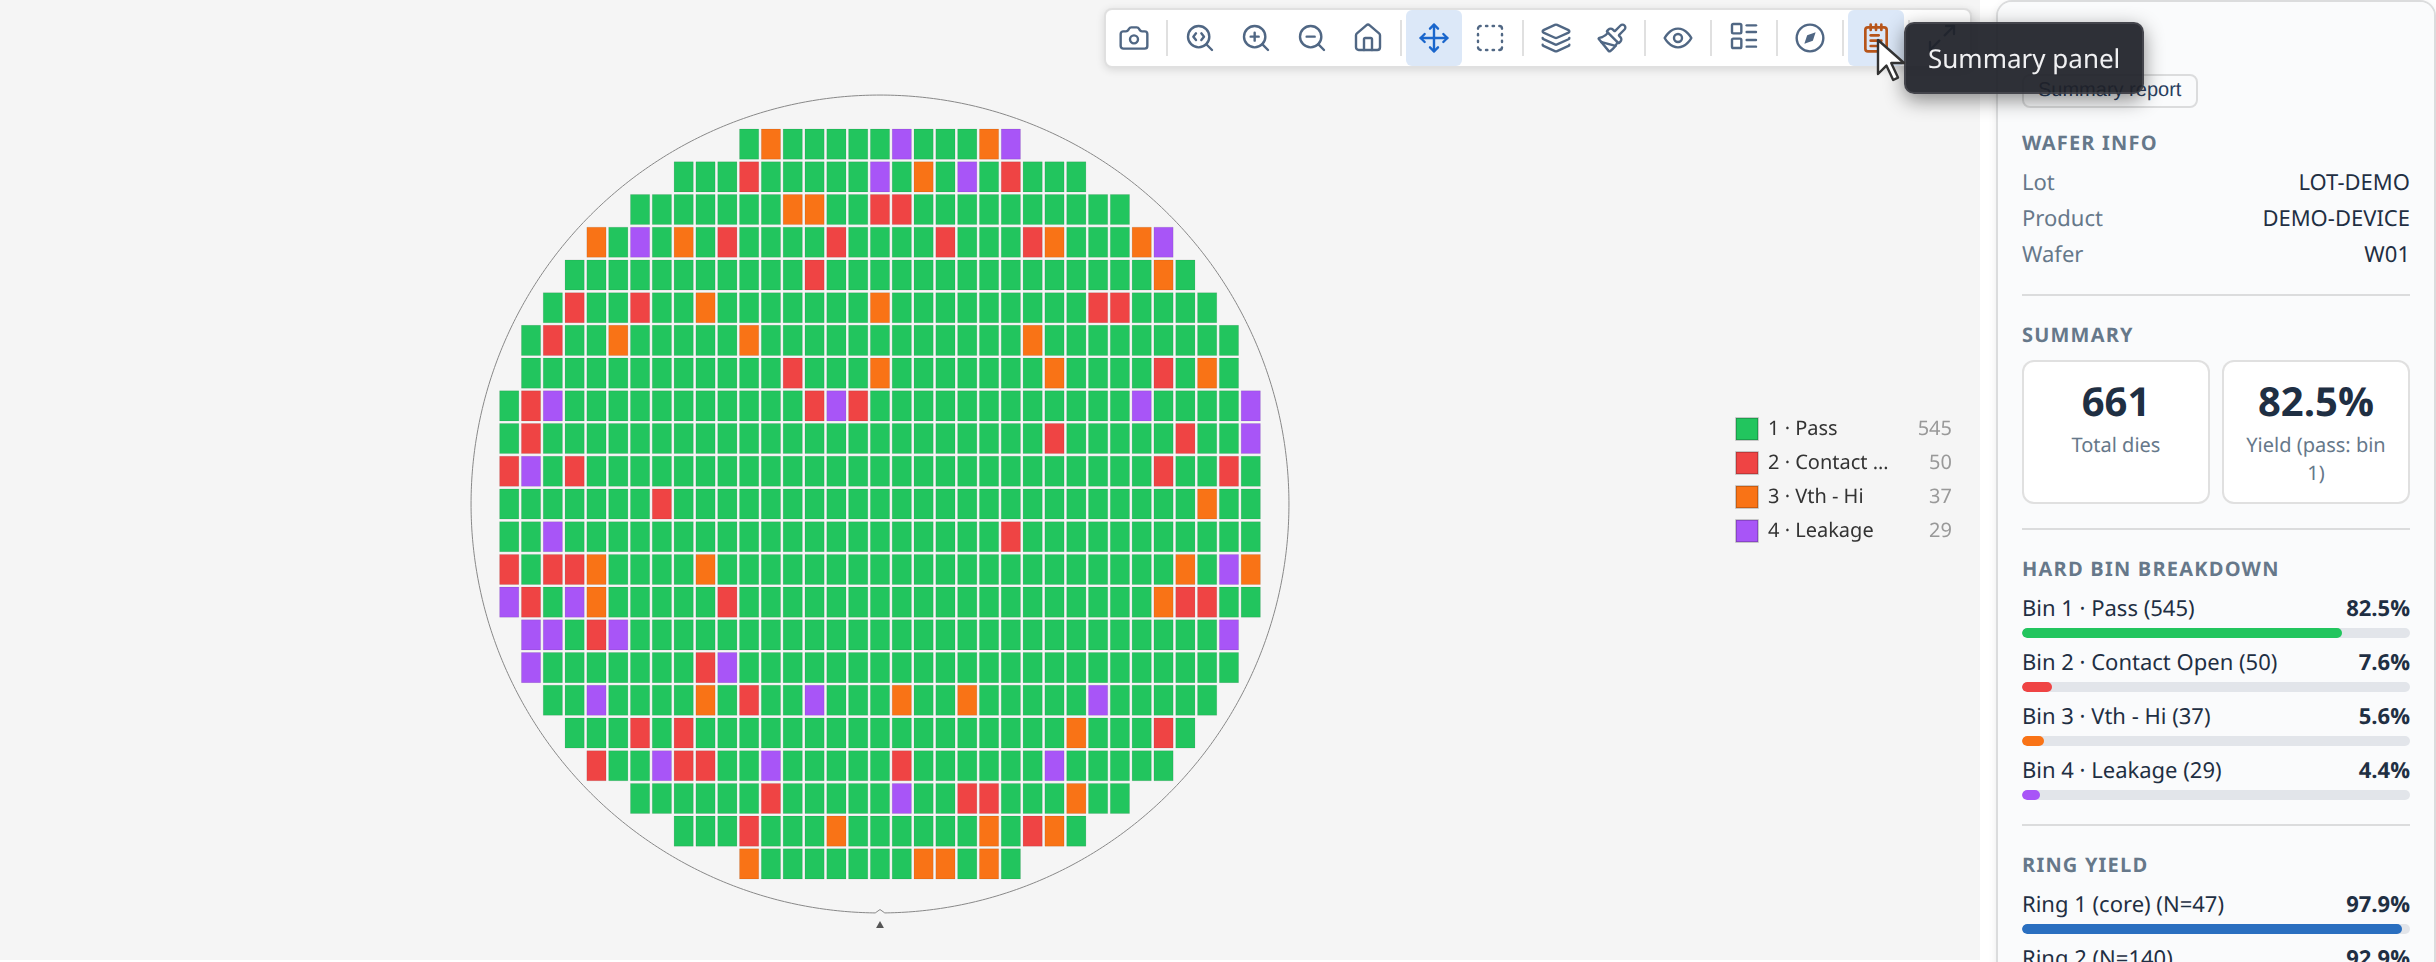
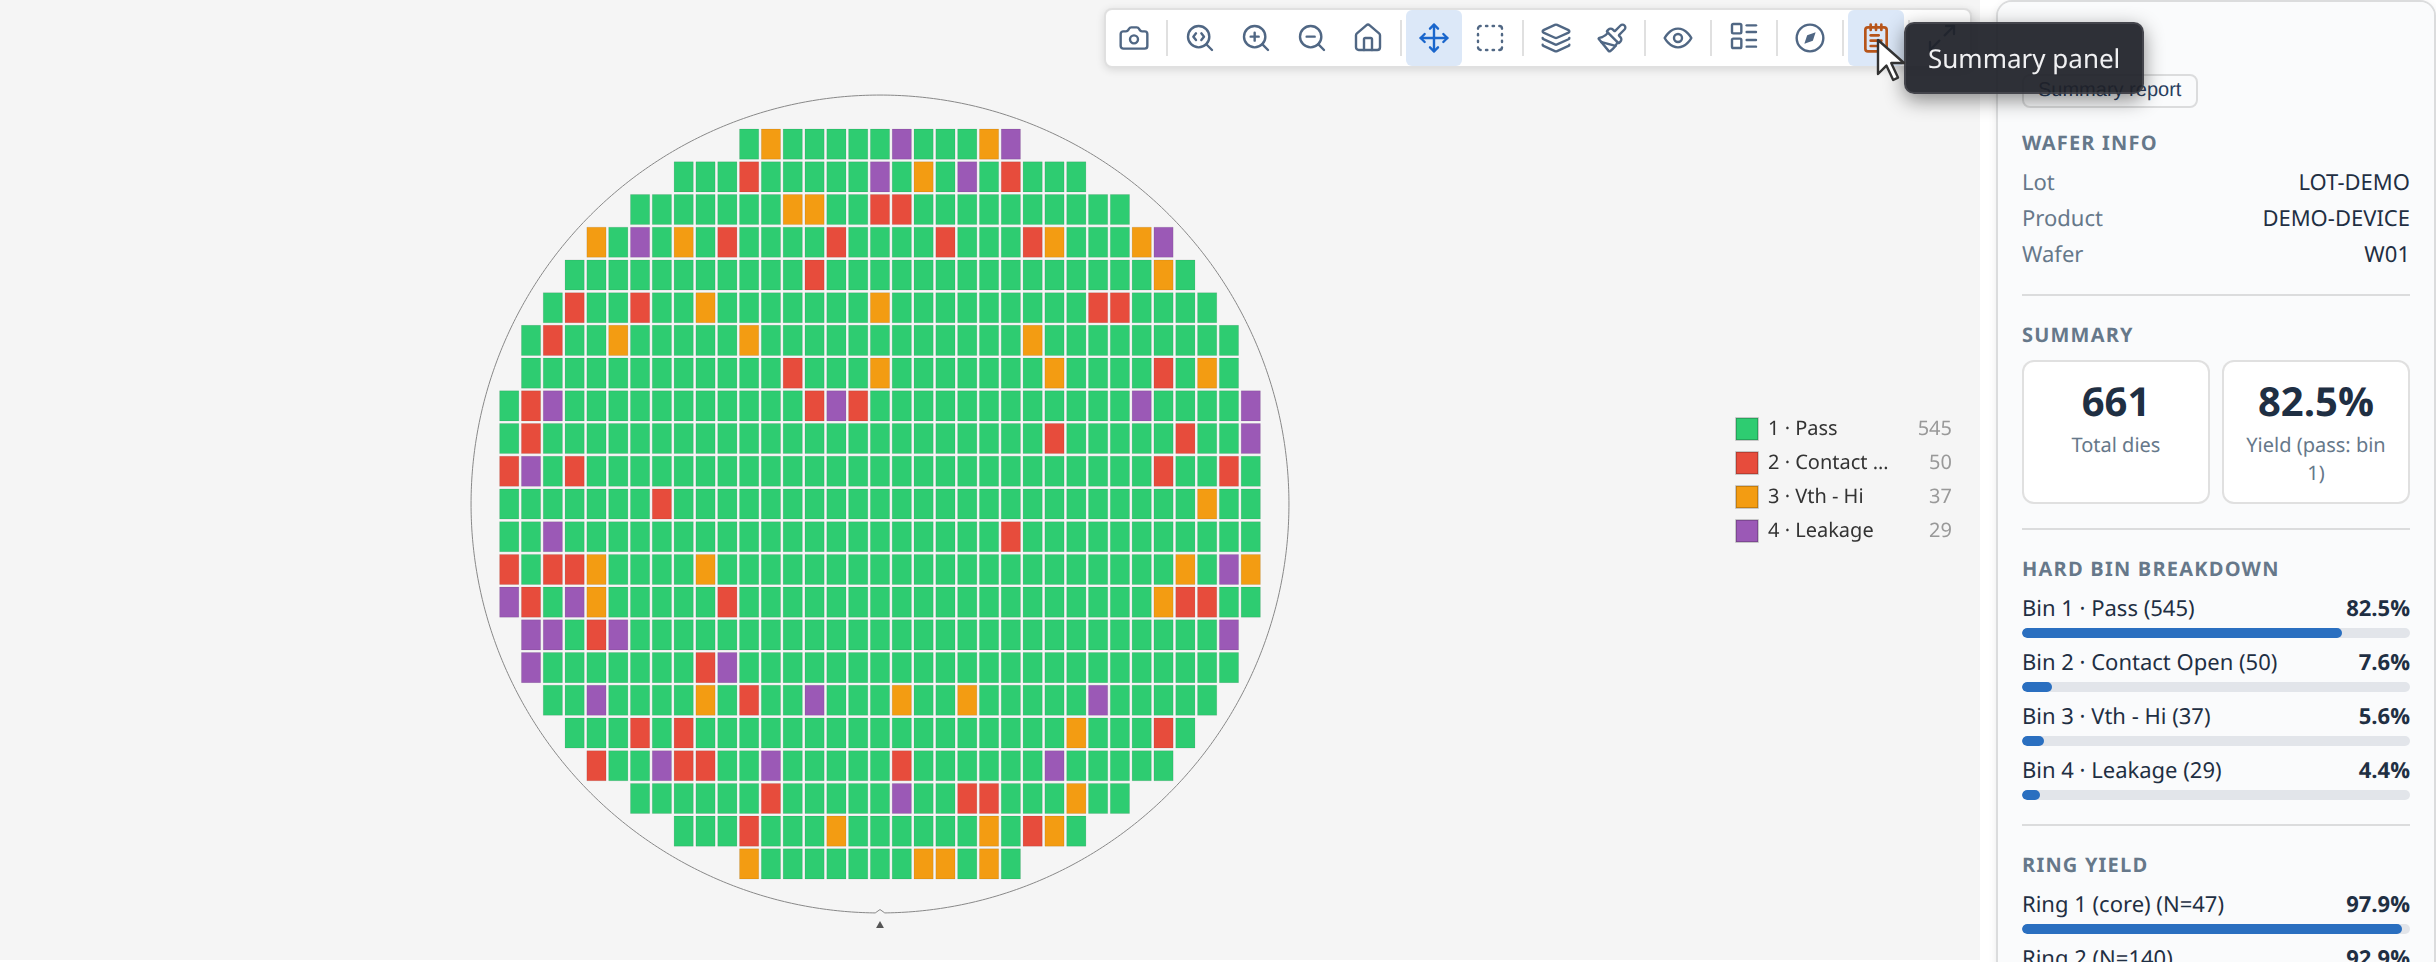
feat: custom bin colours respect colour scheme switching
Bin defs with explicit color fields are now treated as a 'custom' colour
scheme rather than unconditional overrides. Switching to Greyscale, Accessible,
Plasma etc. applies the scheme in full; switching back to 'custom' restores
the user-defined colours. The 'custom' entry appears in the toolbar dropdown
only when the active render instance has bin defs with colour fields — no
global registry pollution.

viridis scheme is now genuinely distinct from default — it applies the viridis
gradient to bin colours (sequential) rather than the categorical palette,
making it appropriate for ordered bin data.

Demo fixes: 01-first-map.html drops redundant hbinDefs (no colour fields,
identical to default); 05-named-bins.html defines its own distinct palette
locally; data.js HBIN_DEFS no longer carries colour fields so it doesn't
trigger the custom scheme across all demos.
Bumped version to 0.12.6.

diff --git a/packages/canvas-adapter/renderWaferGallery.ts b/packages/canvas-adapter/renderWaferGallery.ts
@@ -528,9 +528,15 @@ export function renderWaferGallery(
     setOpenMenu(menu);
   });
 
+  const itemsHaveCustomColors = (): boolean =>
+    currentItems.flatMap(it => it ? [...(it.hbinDefs ?? []), ...(it.sbinDefs ?? [])] : []).some(d => d.color);
+
   const btnPalette = makeDropdown(
     'palette', 'Colour scheme',
-    () => listColorSchemes().map(s => ({ value: s.name, label: s.label })),
+    () => [
+      ...(itemsHaveCustomColors() ? [{ value: 'custom', label: 'Custom' }] : []),
+      ...listColorSchemes().map(s => ({ value: s.name, label: s.label })),
+    ],
     () => sharedOpts.colorScheme ?? 'default',
     v => updateShared({ colorScheme: v }),
   );
@@ -864,7 +870,7 @@ export function renderWaferGallery(
         width:        '13px',
         height:       '13px',
         flexShrink:   '0',
-        background:   binDef?.color ?? scheme.forBin(bin),
+        background:   (sharedOpts.colorScheme === 'custom' ? binDef?.color : undefined) ?? scheme.forBin(bin),
         border:       isActive ? '2px solid #1a66cc' : '1px solid #ccc',
         borderRadius: '2px',
         boxSizing:    'border-box',
@@ -1225,6 +1231,12 @@ export function renderWaferGallery(
         cardControllers.push(ctrl);
         cardContainers.push(canvasWrapper);
       }
+    }
+
+    // Set 'custom' scheme if items have bin def colours and no explicit scheme was passed.
+    const allDefs = currentItems.flatMap(it => it ? [...(it.hbinDefs ?? []), ...(it.sbinDefs ?? [])] : []);
+    if (allDefs.some(d => d.color) && !options.viewOptions?.colorScheme) {
+      sharedOpts = { ...sharedOpts, colorScheme: 'custom' };
     }
 
     // All sync items are now in currentItems — legend can be built from them.

diff --git a/packages/canvas-adapter/toCanvas.ts b/packages/canvas-adapter/toCanvas.ts
@@ -457,6 +457,10 @@ export function toCanvas(
 
     const activeDefs = view.plotMode === 'softBin' ? sbinDefs : hbinDefs;
     const binDefMap  = activeDefs ? new Map(activeDefs.map(d => [d.bin, d])) : null;
+    const binColor = (bin: number): string => {
+      const def = binDefMap?.get(bin);
+      return (view.colorScheme === 'custom' ? def?.color : undefined) ?? scheme.forBin(bin);
+    };
 
     type LegendEntry = {
       bin: number;
@@ -595,7 +599,7 @@ export function toCanvas(
           const midY = originYLegend + row * BIN_ROW_H + BIN_ROW_H / 2;
           const swatchY = originYLegend + row * BIN_ROW_H + Math.round((BIN_ROW_H - BIN_SWATCH_SIZE) / 2);
           const labelMaxW = columnWidths[col] - BIN_SWATCH_SIZE - BIN_LABEL_GAP - BIN_COUNT_W;
-          ctx.fillStyle = entry.binDef?.color ?? scheme.forBin(entry.bin);
+          ctx.fillStyle = binColor(entry.bin);
           ctx.fillRect(swatchX, swatchY, BIN_SWATCH_SIZE, BIN_SWATCH_SIZE);
           ctx.strokeStyle = isActive ? '#1a66cc' : 'rgba(0,0,0,0.25)';
           ctx.lineWidth = isActive ? 2 : 0.75;
@@ -638,7 +642,7 @@ export function toCanvas(
         const displayLabel = legendIsFloating
           ? (entry.binDef?.name ? `${entry.bin} · ${entry.binDef.name}` : `Bin ${entry.bin}`)
           : entry.label;
-        ctx.fillStyle = entry.binDef?.color ?? scheme.forBin(entry.bin);
+        ctx.fillStyle = binColor(entry.bin);
         ctx.fillRect(swatchX, swatchY, BIN_SWATCH_SIZE, BIN_SWATCH_SIZE);
         ctx.strokeStyle = isActive ? '#1a66cc' : 'rgba(0,0,0,0.25)';
         ctx.lineWidth = isActive ? 2 : 0.75;

diff --git a/packages/renderer/colorSchemes.ts b/packages/renderer/colorSchemes.ts
@@ -68,22 +68,23 @@ function binArray(colors: readonly string[]): (bin: number) => string {
 // ── Built-in schemes ──────────────────────────────────────────────────────────
 
 /**
- * VIRIDIS — purple-to-yellow perceptually uniform continuous gradient.
- * Available as a standalone scheme; also used as the continuous scale for DEFAULT.
- */
-registerColorScheme('viridis', {
-  label: 'Viridis',
-  forBin: binArray(HARD_BIN_COLORS),
-  forValue: (t) => lerpKp(VIRIDIS, t),
-});
-
-/**
  * DEFAULT — colourful categorical bins, Viridis continuous gradient.
  * Good all-purpose choice for colour displays.
  */
 registerColorScheme('default', {
   label: 'Default',
   forBin: binArray(HARD_BIN_COLORS),
+  forValue: (t) => lerpKp(VIRIDIS, t),
+});
+
+/**
+ * VIRIDIS — purple-to-yellow perceptually uniform gradient for both bins and values.
+ * Unlike Default (which uses categorical colours for bins), Viridis maps bin numbers
+ * sequentially through the gradient — useful when bins represent ordered severity levels.
+ */
+registerColorScheme('viridis', {
+  label: 'Viridis',
+  forBin:  (bin) => lerpKp(VIRIDIS, Math.min(bin, 16) / 16),
   forValue: (t) => lerpKp(VIRIDIS, t),
 });
 

diff --git a/docs/examples/05-named-bins.html b/docs/examples/05-named-bins.html
@@ -41,13 +41,22 @@
     import { buildWaferMap } from 'wafermap';
     import { renderWaferMap } from 'wafermap/render';
     import { analyzeWaferMap } from 'wafermap/stats';
-    import { makeResults, WAFER_CONFIG, DIE_CONFIG, HBIN_DEFS, SBIN_DEFS } from './data.js';
+    import { makeResults, WAFER_CONFIG, DIE_CONFIG, SBIN_DEFS } from './data.js';
+
+    // Custom bin colours — distinct from the default scheme to show that
+    // hbinDefs.color overrides the palette when colorScheme is 'custom'.
+    const HBIN_DEFS = [
+      { bin: 1, name: 'Pass',         color: '#0ea5e9' },  // sky blue
+      { bin: 2, name: 'Contact Open', color: '#dc2626' },  // red
+      { bin: 3, name: 'Vth - Hi',     color: '#d97706' },  // amber
+      { bin: 4, name: 'Leakage',      color: '#7c3aed' },  // violet
+    ];
 
     const result = buildWaferMap({
       results: makeResults({ seed: 11 }),
       waferConfig: WAFER_CONFIG,
       dieConfig: DIE_CONFIG,
-      hbinDefs: HBIN_DEFS,   // named definitions for hard bins
+      hbinDefs: HBIN_DEFS,   // named definitions with custom colours
       sbinDefs: SBIN_DEFS,   // named definitions for soft bins
       passBins: [1],
     });

diff --git a/packages/canvas-adapter/renderWaferMap.ts b/packages/canvas-adapter/renderWaferMap.ts
@@ -276,9 +276,11 @@ export function renderWaferMap(
   let reticles: Reticle[]   | undefined = result.reticles?.length ? result.reticles : undefined;
   let dataAxisFlip: { x: boolean; y: boolean } | undefined = result.view?.axisFlip;
 
+  const hasCustomColors = [...(hbinDefs ?? []), ...(sbinDefs ?? [])].some(d => d.color);
+
   let viewOpts: WaferViewOptions = {
     plotMode:               'hardBin',
-    colorScheme:            'default',
+    colorScheme:            hasCustomColors ? 'custom' : 'default',
     showDieLabels:               false,
     showPartialDies:        true,
     showRingBoundaries:     false,
@@ -626,7 +628,10 @@ export function renderWaferMap(
         });
         const btnPalette = makeDropdown(
           'palette', 'Colour scheme',
-          () => listColorSchemes().map(s => ({ value: s.name, label: s.label })),
+          () => [
+            ...(hasCustomColors ? [{ value: 'custom', label: 'Custom' }] : []),
+            ...listColorSchemes().map(s => ({ value: s.name, label: s.label })),
+          ],
           () => viewOpts.colorScheme ?? 'default',
           v => applyOpts({ colorScheme: v }),
         );

diff --git a/packages/renderer/buildView.ts b/packages/renderer/buildView.ts
@@ -710,9 +710,7 @@ function pushDieRectangles(
 
   if (plotMode === 'hardBin' || plotMode === 'softBin') {
     const bin = getBin(die);
-    const fill = bin != null
-      ? (binDefMap?.get(bin)?.color ?? colorFns.forBin(bin))
-      : '#d6d9dd';
+    const fill = bin != null ? colorFns.forBin(bin) : '#d6d9dd';
     rectangles.push({ x: die.physX, y: die.physY, width: sw, height: sh, fill, type: plotMode, metadata: die.metadata });
     return;
   }
@@ -817,7 +815,9 @@ export function buildView(
 
   const colorFns: ColorFns = {
     forValue: buildColorLut(scheme.forValue),
-    forBin:   scheme.forBin,
+    forBin:   colorScheme === 'custom' && binDefMap
+      ? (bin) => binDefMap.get(bin)?.color ?? scheme.forBin(bin)
+      : scheme.forBin,
   };
 
   // Resolve activeTest (toolbar cursor) → canonical test number for getDieTestValue.

diff --git a/docs/examples/01-first-map.html b/docs/examples/01-first-map.html
@@ -34,7 +34,7 @@
   <script type="module">
     import { buildWaferMap }  from 'wafermap';
     import { renderWaferMap } from 'wafermap/render';
-    import { makeResults, WAFER_CONFIG, DIE_CONFIG, HBIN_DEFS } from './data.js';
+    import { makeResults, WAFER_CONFIG, DIE_CONFIG } from './data.js';
 
     // Step 1 — buildWaferMap: pure data layer (no DOM, server-safe).
     // Pass prober step positions in x/y — the library converts to mm internally.
@@ -42,7 +42,6 @@
       results:     makeResults({ seed: 7 }),
       waferConfig: WAFER_CONFIG,   // { diameter: 300, notch: { type: 'bottom' } }
       dieConfig:   DIE_CONFIG,     // { width: 10, height: 10 }
-      hbinDefs:    HBIN_DEFS,
       passBins:    [1],
     });
 

diff --git a/docs/examples/data.js b/docs/examples/data.js
@@ -143,10 +143,10 @@ export function makeResults({
  * Bin 1 = Pass; bins 2–4 are failure categories as assigned by the test program handler.
  */
 export const HBIN_DEFS = [
-  { bin: 1, name: 'Pass',          color: '#22c55e' },
-  { bin: 2, name: 'Contact Open',  color: '#ef4444' },
-  { bin: 3, name: 'Vth - Hi',      color: '#f97316' },
-  { bin: 4, name: 'Leakage',       color: '#a855f7' },
+  { bin: 1, name: 'Pass'          },
+  { bin: 2, name: 'Contact Open'  },
+  { bin: 3, name: 'Vth - Hi'      },
+  { bin: 4, name: 'Leakage'       },
 ];
 
 /**
